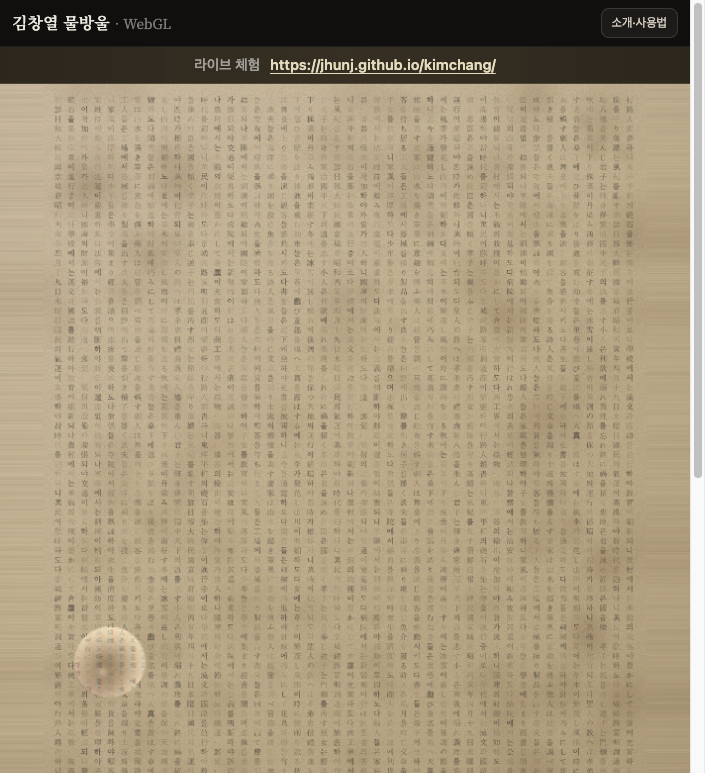
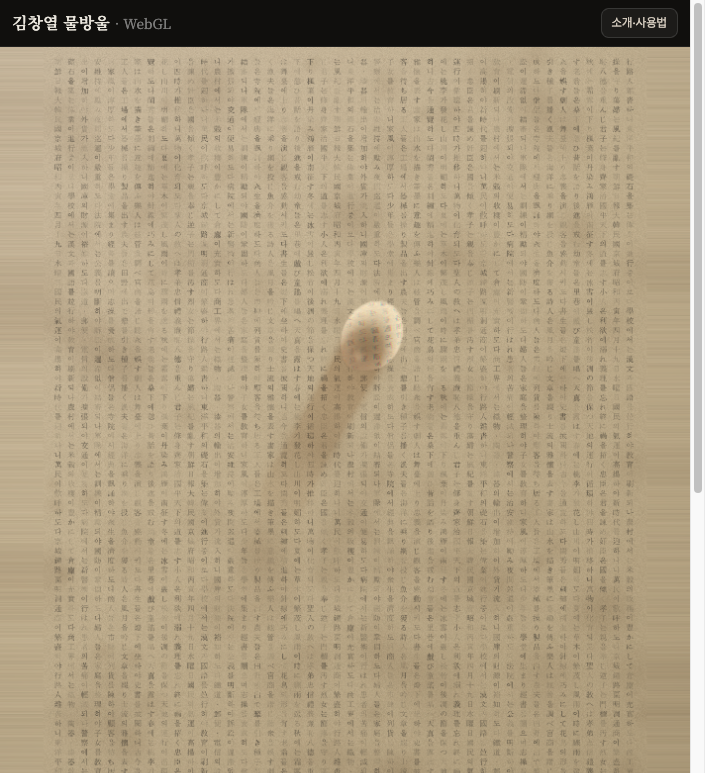
fix: remove in-page live URL bar; GitHub About description holds demo link
Made-with: Cursor

diff --git a/index.html b/index.html
@@ -160,32 +160,6 @@
         background: rgba(255, 255, 255, 0.1);
         color: #fff;
       }
-      .live-demo-bar {
-        flex-shrink: 0;
-        margin: 0;
-        padding: 8px 12px;
-        font-size: clamp(0.78rem, 2.8vw, 0.9rem);
-        line-height: 1.4;
-        text-align: center;
-        color: rgba(232, 228, 220, 0.92);
-        background: linear-gradient(
-          90deg,
-          rgba(90, 78, 52, 0.35),
-          rgba(140, 120, 80, 0.28),
-          rgba(90, 78, 52, 0.35)
-        );
-        border-bottom: 1px solid rgba(200, 175, 130, 0.22);
-      }
-      .live-demo-bar a {
-        color: #e8dfc4;
-        font-weight: 600;
-        word-break: break-all;
-      }
-      .live-demo-bar .live-label {
-        color: rgba(255, 255, 255, 0.55);
-        font-weight: 500;
-        margin-right: 6px;
-      }
       canvas {
         display: block;
         width: 100%;
@@ -476,10 +450,6 @@
         <div class="app-topbar-title">김창열 물방울 <span>· WebGL</span></div>
         <a class="app-topbar-more" href="#guide-wrap">소개·사용법</a>
       </header>
-      <p class="live-demo-bar">
-        <span class="live-label">라이브 체험</span>
-        <a href="https://jhunj.github.io/kimchang/">https://jhunj.github.io/kimchang/</a>
-      </p>
       <div
         id="stage"
         class="stage"

diff --git a/README.md b/README.md
@@ -15,7 +15,7 @@
 
 ## 스크린샷 (최신 UI)
 
-![김창열 물방울 WebGL 데모 — 라이브 체험 링크·캔버스](public/docs/screenshot.png)
+![김창열 물방울 WebGL 데모 — 메인 화면](public/docs/screenshot.png)
 
 ---
 
@@ -105,7 +105,8 @@ npm run preview       # 빌드 미리보기
 
 ## GitHub에서 검색·노출·Social preview
 
-- 저장소 **About**에 **Website** 로 라이브 URL을 넣어 두었습니다.
+- 저장소 **About → Description** 에 **라이브 체험 전체 URL**(`https://jhunj.github.io/kimchang/`)이 들어가 있도록 해 두었습니다. (웹앱 화면 안이 아니라 **깃허브 저장소 설명란**용입니다.)
+- **Website** 필드에도 동일한 주소가 연결되어 있습니다.
 - **Settings → General → Social preview** 에 `public/docs/screenshot.png` 를 올리면 링크 카드에 썸네일이 붙습니다.
 
 ---
